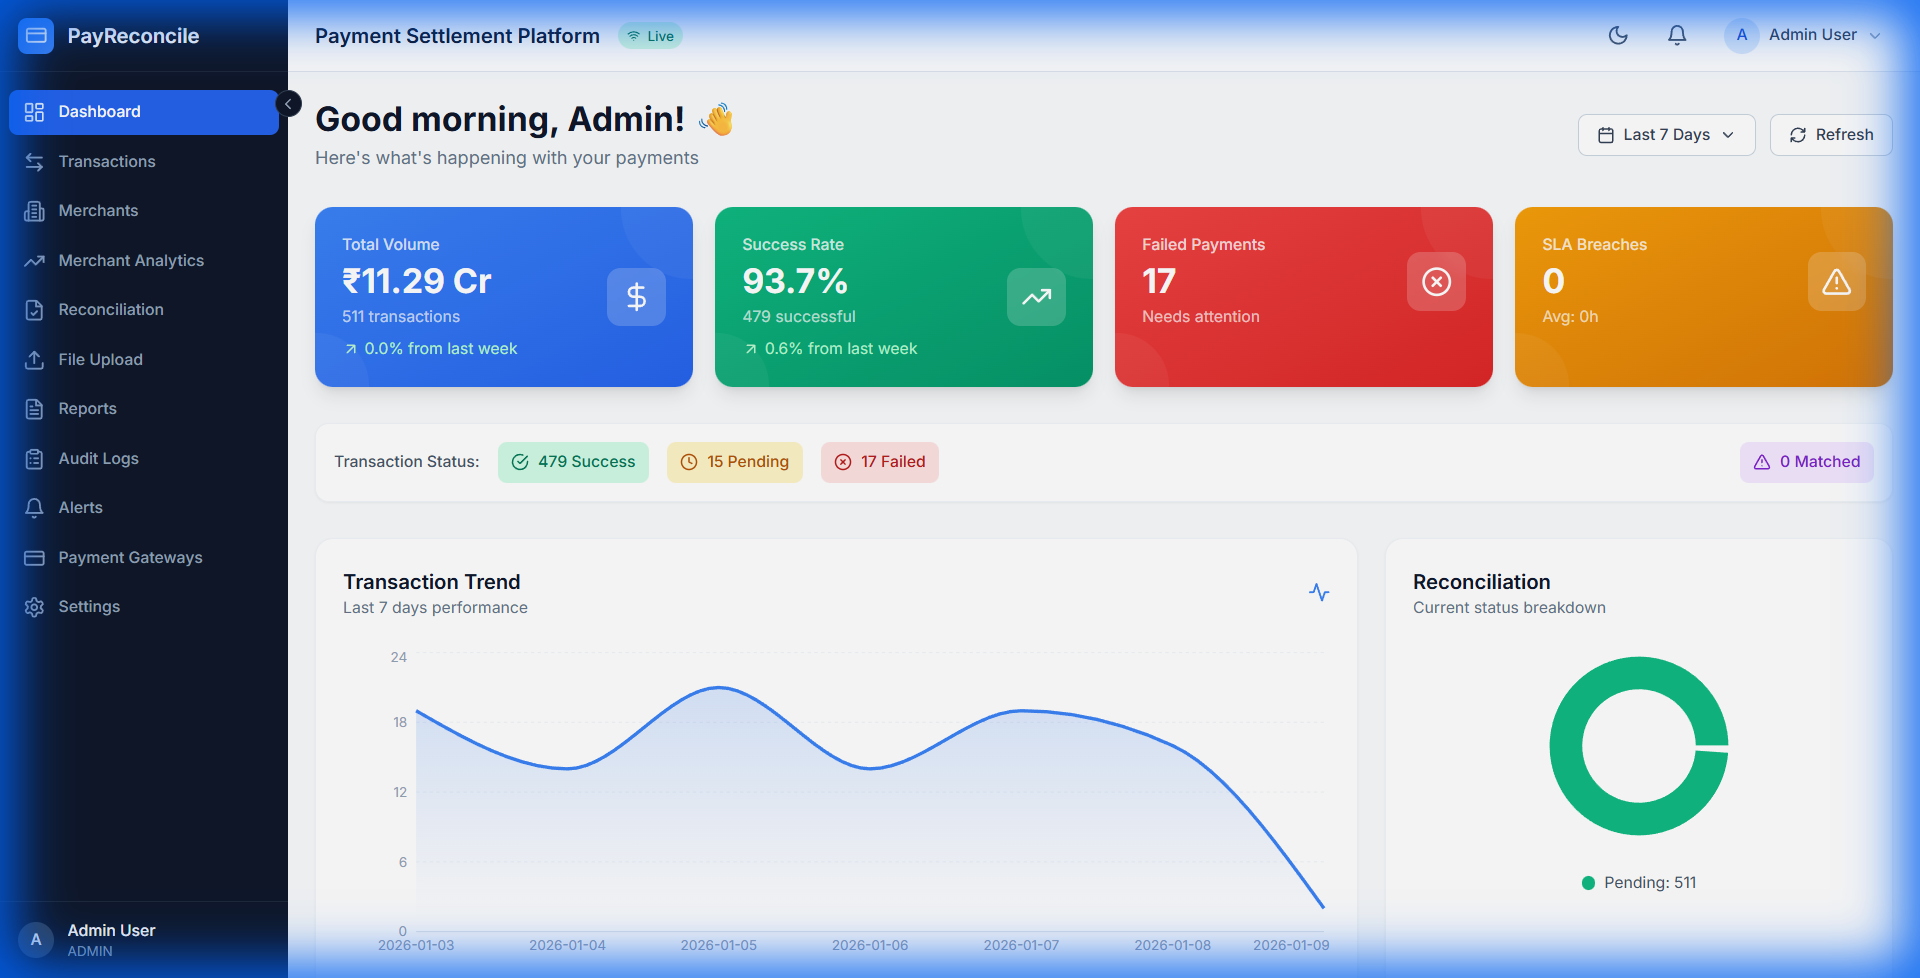
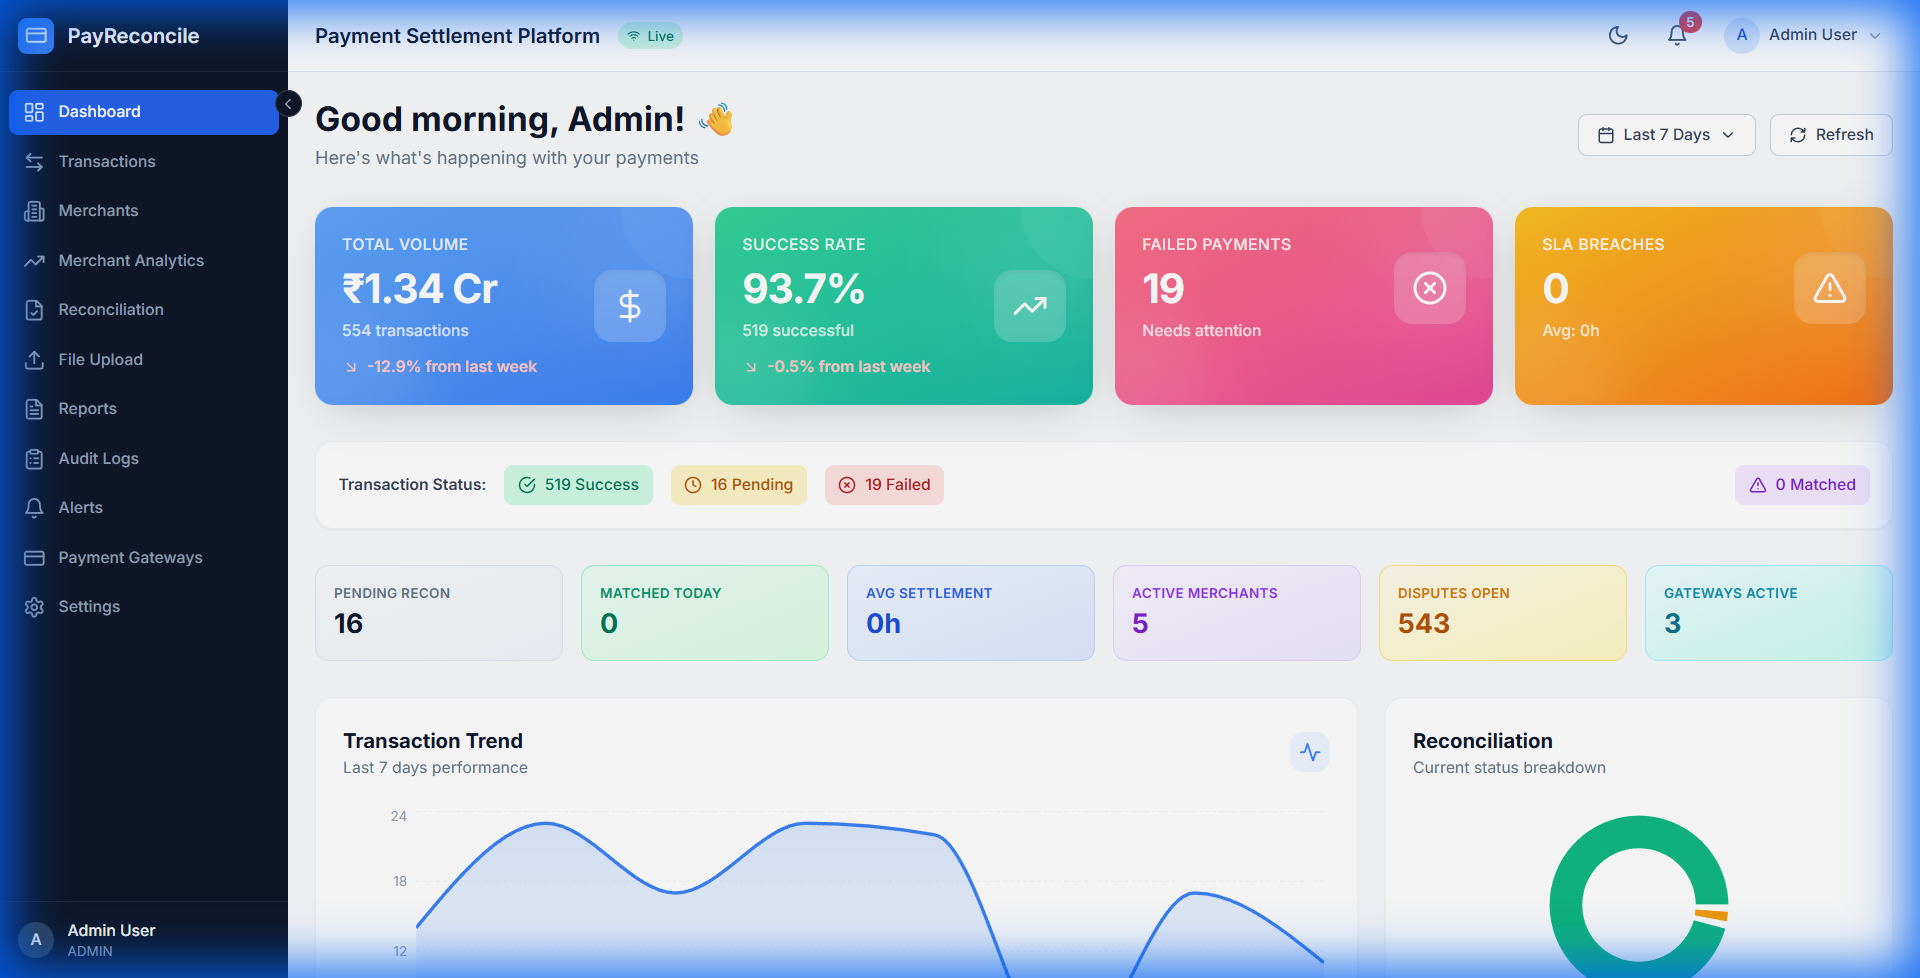
docs: Updated README with new screenshots and enhanced feature descriptions

diff --git a/README.md b/README.md
@@ -4,7 +4,7 @@
   <img src="screenshots/dashboard.png" alt="PayReconcile Dashboard" width="100%">
 </p>
 
-A comprehensive enterprise-grade payment settlement and reconciliation platform built with **Node.js**, **React**, and **MongoDB**. Integrates with **Razorpay** and **Stripe** payment gateways for real-time transaction sync and automated reconciliation.
+A comprehensive enterprise-grade payment settlement and reconciliation platform built with **Node.js**, **React**, and **MongoDB**. Automates transaction matching between bank statements and merchant records.
 
 ## ✨ Features
 
@@ -14,43 +14,45 @@ A comprehensive enterprise-grade payment settlement and reconciliation platform 
 - Secure password hashing with bcrypt
 - Session management with auto-logout
 
-### 📊 Dashboard & Analytics
-- Real-time transaction statistics
+### 📊 Professional Dashboard
+- Real-time transaction statistics with 10 stat cards
+- Lighter pastel color gradients for modern look
 - Date range picker with presets (Today, 7d, 30d, 90d)
-- Period-over-period comparison indicators
 - Transaction trends visualization
-- Reconciliation status breakdown
+- Reconciliation status donut chart
+- Top merchants ranking
 
 ### 💳 Transaction Management
 - Full CRUD operations for transactions
 - Advanced search and filtering
-- Quick filter presets (Today, This Week, Failed Only, etc.)
-- Bulk status updates
-- PDF report generation
+- Bulk actions (approve, reject, edit)
+- PDF report generation & export
+- Real-time status updates
 
 ### 🏢 Merchant Management
 - Merchant onboarding and management
-- Merchant performance analytics
+- Per-merchant analytics
 - Volume and success rate tracking
-- Merchant rankings by performance
 
 ### ⚖ Automated Reconciliation
-- Rule-based transaction matching
-- Support for multiple matching strategies
-- SLA breach detection and tracking
-- Reconciliation run history
+- **Combined Upload + Reconciliation page** for streamlined workflow
+- Hash-map based O(n) matching algorithm
+- Matches by: `transaction_id + merchant_id + amount`
+- Date window validation (24h default)
+- Amount tolerance configuration
+- Dispute detection for mismatches
 
-### 🔌 Payment Gateway Integrations
-- **Razorpay** - Full API integration with webhook support
-- **Stripe** - Payment sync and management
-- Real-time transaction syncing
-- Gateway performance comparison
+### 📁 File Upload
+- CSV/Excel file parsing
+- Bank statement import
+- Merchant records import
+- Column auto-mapping
 
 ### 🌙 User Experience
-- Dark mode support with system preference detection
+- Full dark mode support
 - Responsive design for all screen sizes
-- Smooth animations with Framer Motion
-- Toast notifications for actions
+- Smooth Framer Motion animations
+- Toast notifications for all actions
 
 ---
 
